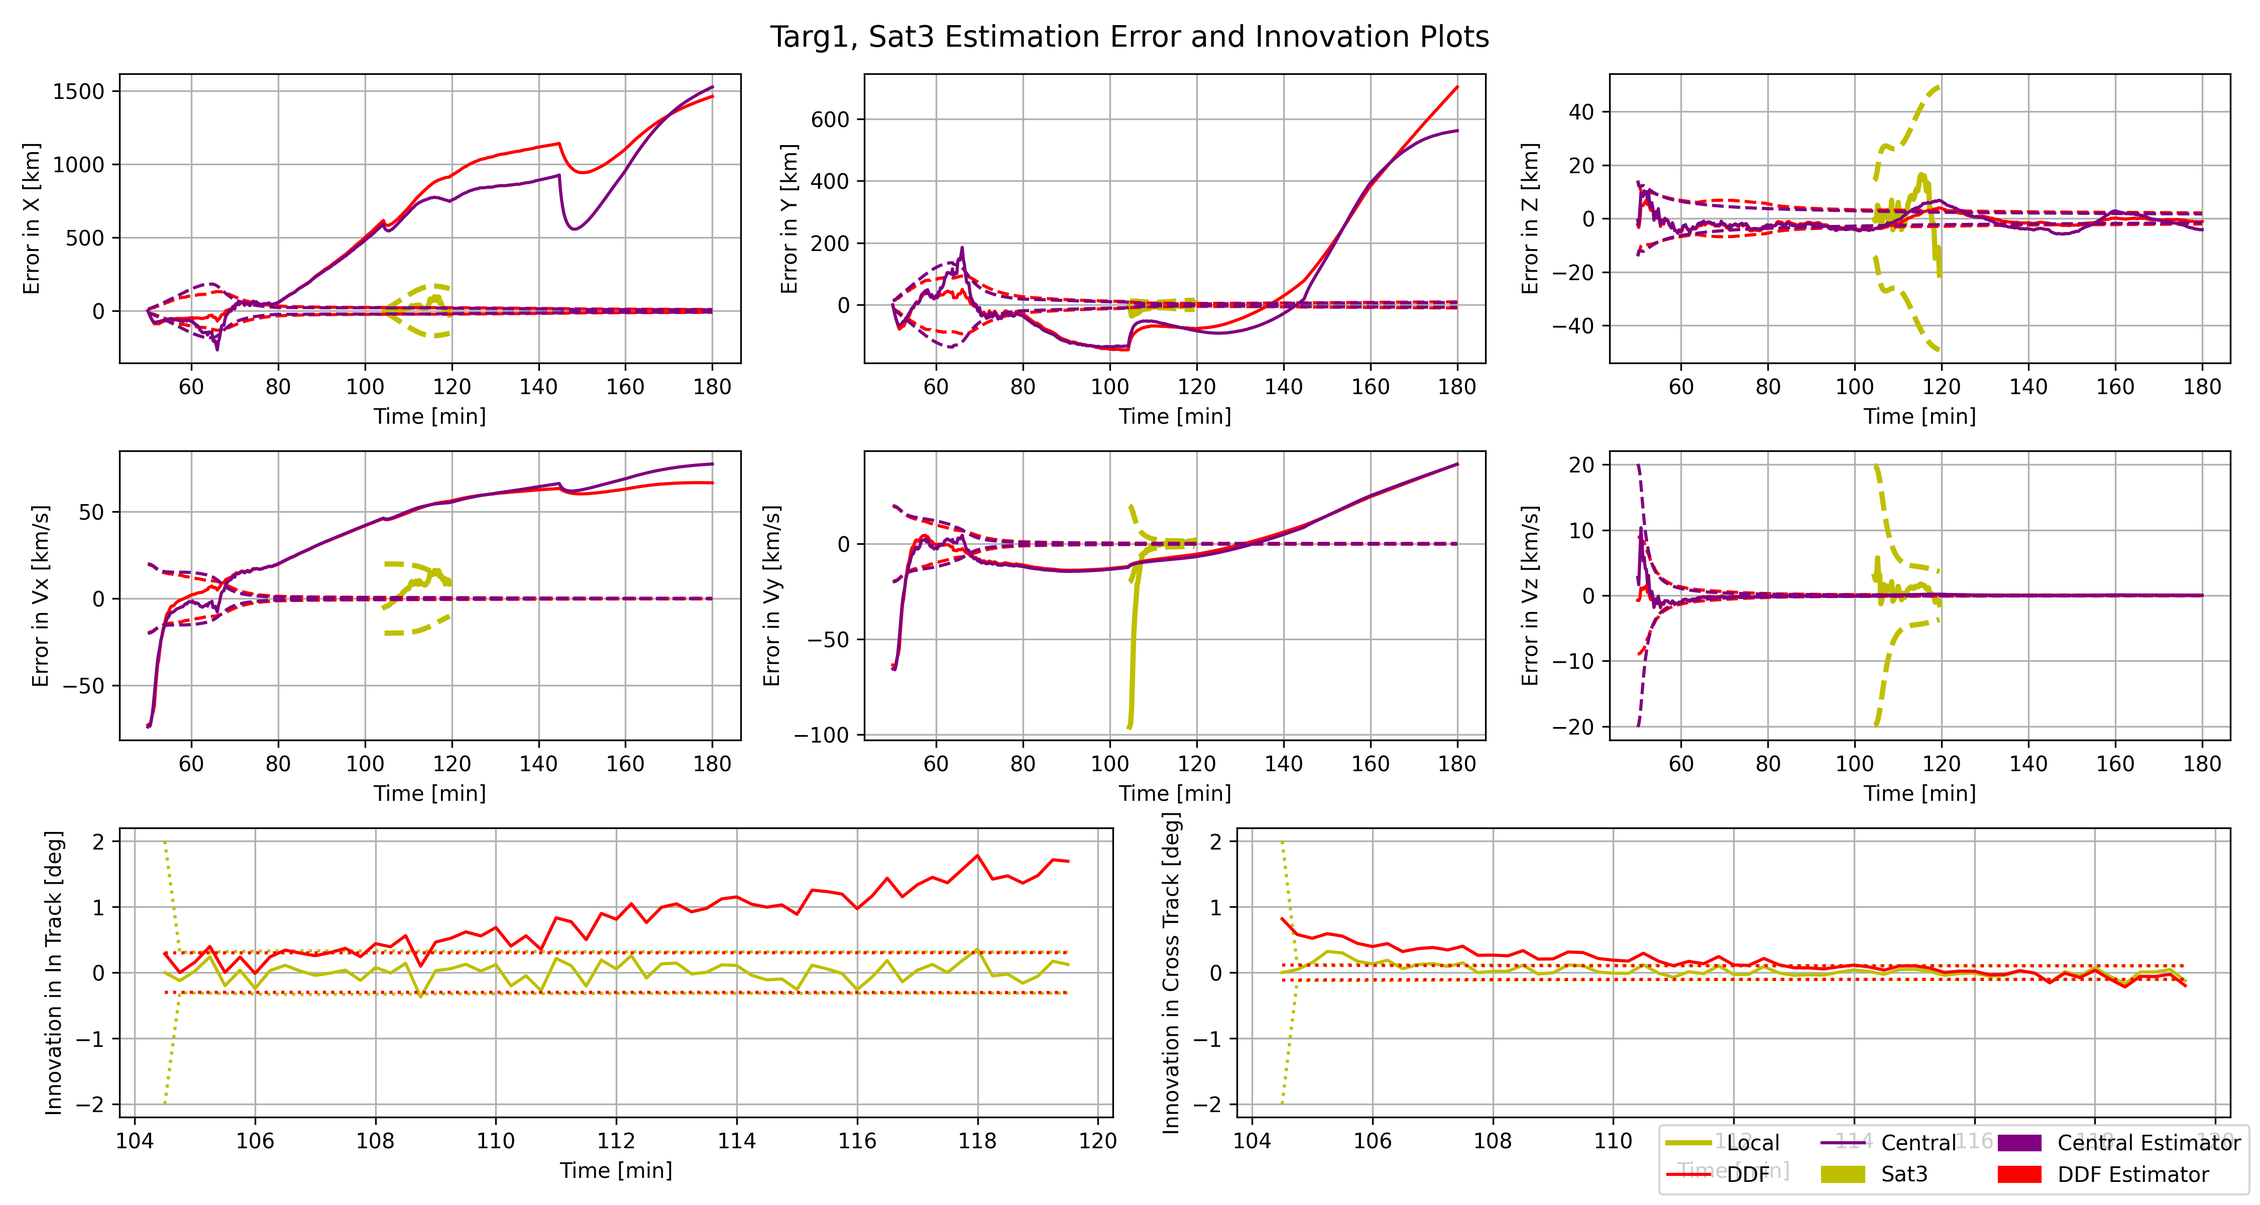
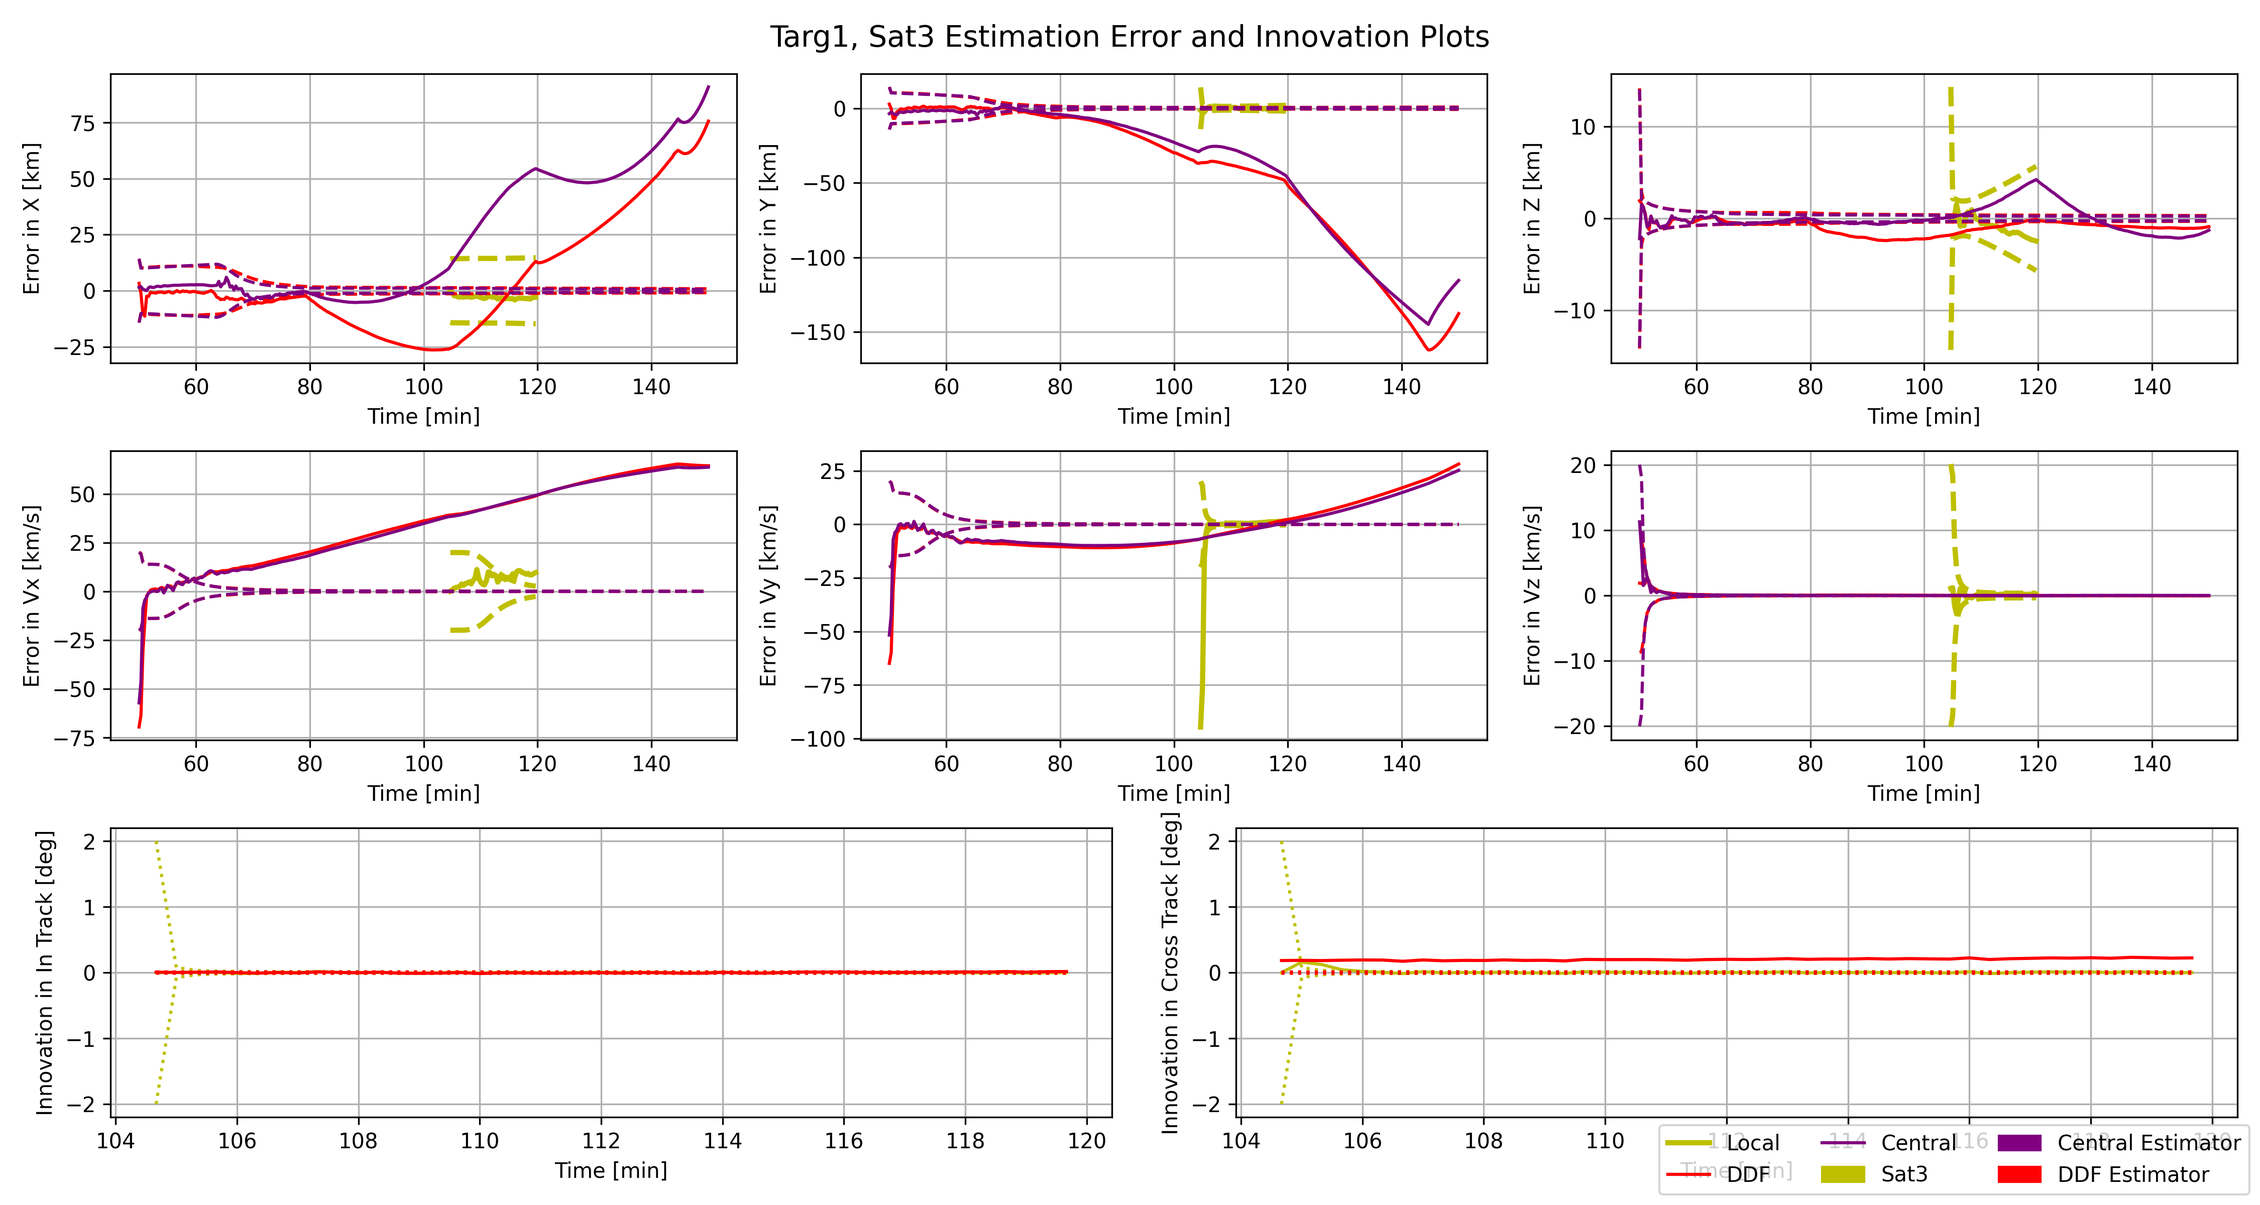
Test Case

diff --git a/phase1/estimatorClass.py b/phase1/estimatorClass.py
@@ -46,7 +46,7 @@ class centralEstimator:
         if len(self.estHist[targetID]) == 0 and len(self.covarianceHist[targetID]) == 0: # If no prior estimate exists, just use the measurement
     # If no prior estimates, use the first measurement and assume no velocity
             # start with true position plus some noise
-            est_prior = np.array([target.pos[0], 0, target.pos[1], 0, target.pos[2], 0]) + np.random.normal(0, 2, 6) 
+            est_prior = np.array([target.pos[0], 10, target.pos[1], 10, target.pos[2], 10]) + np.random.normal(0, 2, 6) 
             # start with some covariance, about +- 5 km and +- 20 km/min, then plus some noise 
             P_prior = np.array([[50, 0, 0, 0, 0, 0],
                                 [0, 100, 0, 0, 0, 0],
@@ -74,6 +74,7 @@ class centralEstimator:
     # Define the state transition matrix, F.
     # Is a 6x6 matrix representing mapping b/w state at time k and time k+1
         # How does our state: [x, vx, y, vy, z, vz] change over time?
+        
         F = np.array([[1, dt, 0, 0, 0, 0], # Assume no acceleration, just constant velocity over the time step
                       [0, 1, 0, 0, 0, 0],
                       [0, 0, 1, dt, 0, 0],
@@ -100,9 +101,28 @@ class centralEstimator:
 
 # PREDICTION:
     # Predict the state and covariance
-        est_pred = np.dot(F, est_prior)
+        est_pred = self.state_transition(est_prior, dt)
+        F = self.state_transition_jacobian(est_prior, dt)
+        
+        #est_pred2 = np.dot(F, est_prior)
         P_pred = np.dot(F, np.dot(P_prior, F.T)) + Q
+        
+        
+        # print(f"At time: {envTime:.2f}")
 
+        # predicted_state = est_pred  # Alias for clarity
+        # actual_state = [
+        #     target.pos[0], target.vel[0],
+        #     target.pos[1], target.vel[1],
+        #     target.pos[2], target.vel[2]
+        # ]
+
+        # # Format each element of the predicted state and actual state to 2 decimal places
+        # formatted_predicted_state = [f"{value:.2f}" for value in predicted_state]
+        # formatted_actual_state = [f"{value:.2f}" for value in actual_state]
+
+        # print(f"Predicted state: {formatted_predicted_state}")
+        
 # Use the predicted state to calculate H
     # Need this to be stacked for each satellite
     # Each H will be a 2x6 matrix
@@ -128,6 +148,12 @@ class centralEstimator:
     # Correct prediction
         est = est_pred + np.dot(K, innovation)
         P = P_pred - np.dot(K, np.dot(H, P_pred))
+        
+        # formatted_corrected_state = [f"{value:.2f}" for value in est]
+        # print(f"Corrected state: {formatted_corrected_state}")
+        # print(f"Actual state: {formatted_actual_state}")
+
+        #print(*["-"*10]*6, sep="\n")
 
     # CALCUATE NEES AND NIS
         # For nees, we need to get the error compared to the truth data:
@@ -148,7 +174,7 @@ class centralEstimator:
         self.nisHist[targetID][envTime] = nis
 
 
-    def calculate_Q(self, dt, intensity=np.array([0.001, 50, 5])):
+    def calculate_Q(self, dt, intensity=np.array([5, np.deg2rad(5), np.deg2rad(5)])):
         # Use Van Loan's method to tune Q using the matrix exponential
         
         # Define the state transition matrix, A.
@@ -190,6 +216,50 @@ class centralEstimator:
         Q = F @ vanLoan[0:6, 6:12]
         
         return Q
+    
+    def state_transition(self, estPrior, dt):
+        # Takes in previous ECI State and returns the next state after dt
+        x = estPrior[0]
+        vx = estPrior[1]
+        y = estPrior[2]
+        vy = estPrior[3]
+        z = estPrior[4]
+        vz = estPrior[5]
+        
+        # Turn into Spherical Coordinates
+        range_ = jnp.sqrt(x**2 + y**2 + z**2)
+        elevation = jnp.arcsin(z / range_)
+        azimuth = jnp.arctan2(y, x)
+        
+        rangeRate = (x * vx + y * vy + z * vz) / (range_ * jnp.linalg.norm(jnp.array([vx, vy, vz])))
+
+        # Calculate elevation rate
+        elevationRate = (z * (vx * x + vy * y) - (x**2 + y**2) * vz) / ((x**2 + y**2 + z**2) * jnp.sqrt(x**2 + y**2))
+
+        # Calculate azimuth rate
+        azimuthRate = (x * vy - y * vx) / (x**2 + y**2)
+
+        # Print intermediate values (comment out if not needed in production)
+        # jax.debug.print(
+        #     "Predic: Range: {range_}, Range Rate: {rangeRate}, Elevation: {elevation}, Elevation Rate: {elevationRate}, Azimuth: {azimuth}, Azimuth Rate: {azimuthRate}",
+        #     range_=range_, rangeRate=rangeRate, elevation=elevation, elevationRate=elevationRate, azimuth=azimuth, azimuthRate=azimuthRate)
+        
+        # Propagate the State
+        range_ = range_ + rangeRate * dt
+        elevation = elevation + elevationRate * dt
+        azimuth = azimuth + azimuthRate * dt
+        
+        # Convert back to Cartesian
+        x = range_ * jnp.cos(elevation) * jnp.cos(azimuth)
+        y = range_ * jnp.cos(elevation) * jnp.sin(azimuth)
+        z = range_ * jnp.sin(elevation)
+        
+        return jnp.array([x, vx, y, vy, z, vz])
+
+    def state_transition_jacobian(self, estPrior, dt):
+        jacobian = jax.jacfwd(lambda x: self.state_transition(x, dt))(jnp.array(estPrior))
+        
+        return jacobian
     
 class indeptEstimator:
     def __init__(self, targetIDs): # Takes in both the satellite objects and the targets
@@ -271,7 +341,10 @@ class indeptEstimator:
 
 # PREDICTION:
     # Predict the state and covariance
-        est_pred = np.dot(F, est_prior) # ECI coordinates
+        #est_pred = np.dot(F, est_prior) # ECI coordinates
+        est_pred = self.state_transition(est_prior, dt)
+        F = self.state_transition_jacobian(est_prior, dt)
+        
         P_pred = np.dot(F, np.dot(P_prior, F.T)) + Q
 
 # Use the predicted state to calculate H
@@ -312,7 +385,7 @@ class indeptEstimator:
         self.nisHist[targetID][envTime] = nis
                                
 
-    def calculate_Q(self, dt, intensity=np.array([0.001, 50, 5])):
+    def calculate_Q(self, dt, intensity=np.array([5, np.deg2rad(5), np.deg2rad(5)])):
         # Use Van Loan's method to tune Q using the matrix exponential
         
         # Define the state transition matrix, A.
@@ -354,7 +427,50 @@ class indeptEstimator:
         Q = F @ vanLoan[0:6, 6:12]
         
         return Q
+    
+    def state_transition(self, estPrior, dt):
+            # Takes in previous ECI State and returns the next state after dt
+            x = estPrior[0]
+            vx = estPrior[1]
+            y = estPrior[2]
+            vy = estPrior[3]
+            z = estPrior[4]
+            vz = estPrior[5]
+            
+            # Turn into Spherical Coordinates
+            range_ = jnp.sqrt(x**2 + y**2 + z**2)
+            elevation = jnp.arcsin(z / range_)
+            azimuth = jnp.arctan2(y, x)
+            
+            rangeRate = (x * vx + y * vy + z * vz) / (range_ * jnp.linalg.norm(jnp.array([vx, vy, vz])))
 
+            # Calculate elevation rate
+            elevationRate = (z * (vx * x + vy * y) - (x**2 + y**2) * vz) / ((x**2 + y**2 + z**2) * jnp.sqrt(x**2 + y**2))
+
+            # Calculate azimuth rate
+            azimuthRate = (x * vy - y * vx) / (x**2 + y**2)
+
+            # Print intermediate values (comment out if not needed in production)
+            # jax.debug.print(
+            #     "Predic: Range: {range_}, Range Rate: {rangeRate}, Elevation: {elevation}, Elevation Rate: {elevationRate}, Azimuth: {azimuth}, Azimuth Rate: {azimuthRate}",
+            #     range_=range_, rangeRate=rangeRate, elevation=elevation, elevationRate=elevationRate, azimuth=azimuth, azimuthRate=azimuthRate)
+            
+            # Propagate the State
+            range_ = range_ + rangeRate * dt
+            elevation = elevation + elevationRate * dt
+            azimuth = azimuth + azimuthRate * dt
+            
+            # Convert back to Cartesian
+            x = range_ * jnp.cos(elevation) * jnp.cos(azimuth)
+            y = range_ * jnp.cos(elevation) * jnp.sin(azimuth)
+            z = range_ * jnp.sin(elevation)
+            
+            return jnp.array([x, vx, y, vy, z, vz])
+        
+    def state_transition_jacobian(self, estPrior, dt):
+        jacobian = jax.jacfwd(lambda x: self.state_transition(x, dt))(jnp.array(estPrior))
+        
+        return jacobian
 class ddfEstimator:
     def __init__(self, targetIDs):
 
@@ -406,14 +522,17 @@ class ddfEstimator:
             # Propegate the estPrior to the new time?
             dt = sentTime - priorTime
             # How does our state: [x, vx, y, vy, z, vz] change over time?
-            F = np.array([[1, dt, 0, 0, 0, 0], # Assume no acceleration, just constant velocity over the time step
-                        [0, 1, 0, 0, 0, 0],
-                        [0, 0, 1, dt, 0, 0],
-                        [0, 0, 0, 1, 0, 0],
-                        [0, 0, 0, 0, 1, dt],
-                        [0, 0, 0, 0, 0, 1]])
+            # F = np.array([[1, dt, 0, 0, 0, 0], # Assume no acceleration, just constant velocity over the time step
+            #             [0, 1, 0, 0, 0, 0],
+            #             [0, 0, 1, dt, 0, 0],
+            #             [0, 0, 0, 1, 0, 0],
+            #             [0, 0, 0, 0, 1, dt],
+            #             [0, 0, 0, 0, 0, 1]])
             
-            estPrior_prop = np.dot(F, estPrior)
+            
+            #estPrior_prop = np.dot(F, estPrior)
+            estPrior_prop = self.state_transition(estPrior, dt)
+            
             #print("Propegated prior estimate to new time: " + str(sentTime) + " for " + str(sat.name) + " from " + str(priorTime) + " to " + str(sentTime) + " : " + str(estPrior) + " to " + str(estPrior_prop))
 
         # Check, should we THROW OUT the prior? or do CI with it?
@@ -514,7 +633,10 @@ class ddfEstimator:
 
 # PREDICTION:
     # Predict the state and covariance
-        est_pred = np.dot(F, est_prior) # ECI coordinates
+        est_pred = self.state_transition(est_prior, dt)
+        F = self.state_transition_jacobian(est_prior, dt)
+        
+        #est_pred = np.dot(F, est_prior) # ECI coordinates
         P_pred = np.dot(F, np.dot(P_prior, F.T)) + Q
 
 # Use the predicted state to calculate H
@@ -554,7 +676,7 @@ class ddfEstimator:
         self.neesHist[targetID][envTime] = nees
         self.nisHist[targetID][envTime] = nis
                                
-    def calculate_Q(self, dt, intensity=np.array([0.001, 50, 5])):
+    def calculate_Q(self, dt, intensity=np.array([5, np.deg2rad(5), np.deg2rad(5)])):
         # Use Van Loan's method to tune Q using the matrix exponential
         
         # Define the state transition matrix, A.
@@ -604,3 +726,47 @@ class ddfEstimator:
         omega = omega[0]
         P = np.linalg.inv(omega * np.linalg.inv(cov1) + (1 - omega) * np.linalg.inv(cov2))
         return np.linalg.det(P)
+    
+    def state_transition(self, estPrior, dt):
+            # Takes in previous ECI State and returns the next state after dt
+            x = estPrior[0]
+            vx = estPrior[1]
+            y = estPrior[2]
+            vy = estPrior[3]
+            z = estPrior[4]
+            vz = estPrior[5]
+            
+            # Turn into Spherical Coordinates
+            range_ = jnp.sqrt(x**2 + y**2 + z**2)
+            elevation = jnp.arcsin(z / range_)
+            azimuth = jnp.arctan2(y, x)
+            
+            rangeRate = (x * vx + y * vy + z * vz) / (range_ * jnp.linalg.norm(jnp.array([vx, vy, vz])))
+
+            # Calculate elevation rate
+            elevationRate = (z * (vx * x + vy * y) - (x**2 + y**2) * vz) / ((x**2 + y**2 + z**2) * jnp.sqrt(x**2 + y**2))
+
+            # Calculate azimuth rate
+            azimuthRate = (x * vy - y * vx) / (x**2 + y**2)
+
+            # Print intermediate values (comment out if not needed in production)
+            # jax.debug.print(
+            #     "Predic: Range: {range_}, Range Rate: {rangeRate}, Elevation: {elevation}, Elevation Rate: {elevationRate}, Azimuth: {azimuth}, Azimuth Rate: {azimuthRate}",
+            #     range_=range_, rangeRate=rangeRate, elevation=elevation, elevationRate=elevationRate, azimuth=azimuth, azimuthRate=azimuthRate)
+            
+            # Propagate the State
+            range_ = range_ + rangeRate * dt
+            elevation = elevation + elevationRate * dt
+            azimuth = azimuth + azimuthRate * dt
+            
+            # Convert back to Cartesian
+            x = range_ * jnp.cos(elevation) * jnp.cos(azimuth)
+            y = range_ * jnp.cos(elevation) * jnp.sin(azimuth)
+            z = range_ * jnp.sin(elevation)
+            
+            return jnp.array([x, vx, y, vy, z, vz])
+        
+    def state_transition_jacobian(self, estPrior, dt):
+        jacobian = jax.jacfwd(lambda x: self.state_transition(x, dt))(jnp.array(estPrior))
+        
+        return jacobian

diff --git a/phase1/main.py b/phase1/main.py
@@ -14,7 +14,7 @@ from commClass import comms
 #####################
 def create_environment():
     # Define a sensor model:
-    sens = sensor(name = 'Sensor', fov = 20, bearingsError = np.array([0.15, 0.05]))
+    sens = sensor(name = 'Sensor', fov = 20, bearingsError = np.array([0.25, 0.005]))
     #sens1 = sensor(name = 'Sensor 1', fov = 20, bearingsError = np.array([0.15, 0.05]))
     #sens2 = sensor(name = 'Sensor 2', fov = 20, bearingsError = np.array([0.15, 0.05]))
    
@@ -31,14 +31,14 @@ def create_environment():
     central = centralEstimator(targetIDs = targetIDs) 
 
     # Define the satellites:
-    sat1 = satellite(name = 'Sat1', sensor = deepcopy(sens), targetIDs=targetIDs, indeptEstimator=deepcopy(local), ddfEstimator=deepcopy(ddf),  a = Earth.R + 12000 * u.km, ecc = 0, inc = 90, raan = -35, argp = -55, nu = 0, color='b')
-    sat2 = satellite(name = 'Sat2', sensor = deepcopy(sens), targetIDs=targetIDs, indeptEstimator=deepcopy(local), ddfEstimator=deepcopy(ddf),  a = Earth.R + 12000 * u.km, ecc = 0, inc = 0, raan = -35, argp = -55, nu = 0, color='c')
+    sat1 = satellite(name = 'Sat1', sensor = deepcopy(sens), targetIDs=targetIDs, indeptEstimator=deepcopy(local), ddfEstimator=deepcopy(ddf), a = Earth.R + 12000 * u.km, ecc = 0, inc = 0, raan = -35, argp = -55, nu = 0, color='c')
+    sat2 = satellite(name = 'Sat2', sensor = deepcopy(sens), targetIDs=targetIDs, indeptEstimator=deepcopy(local), ddfEstimator=deepcopy(ddf),  a = Earth.R + 12000 * u.km, ecc = 0, inc = 90, raan = -35, argp = -55, nu = 0, color='b')
     sat3 = satellite(name = 'Sat3', sensor = deepcopy(sens), targetIDs=targetIDs, indeptEstimator=deepcopy(local), ddfEstimator=deepcopy(ddf),  a = Earth.R + 12000 * u.km, ecc = 0, inc = 90, raan = 0, argp = -90, nu = 0, color='y')
     sat4 = satellite(name = 'Sat4', sensor = deepcopy(sens), targetIDs=targetIDs, indeptEstimator=deepcopy(local), ddfEstimator=deepcopy(ddf),  a = Earth.R + 12000 * u.km, ecc = 0, inc = 90, raan = 35, argp = -125, nu = 0, color='r')
     # sat5 = satellite(name = 'Sat5', sensor = deepcopy(sens), targetIDs=targetIDs, indeptEstimator=deepcopy(local), ddfEstimator=deepcopy(ddf),  a = Earth.R + 1000 * u.km, ecc = 0, inc = 0, raan = -45, argp = -60, nu = 0, color='g')
     # sat6 = satellite(name = 'Sat6', sensor = deepcopy(sens), targetIDs=targetIDs, indeptEstimator=deepcopy(local), ddfEstimator=deepcopy(ddf),  a = Earth.R + 1000 * u.km, ecc = 0, inc = 0, raan = -45, argp = -90, nu = 0, color='m')
 
-    sats = [sat1, sat2, sat3, sat4]#, sat3, sat4, sat5, sat6]
+    sats = [sat1, sat2]#, sat3, sat4]#, sat3, sat4, sat5, sat6]
 
     # Define the target objects:
     targ1 = target(name = 'Targ1', targetID=1, cords = np.array([0,-90,0]), heading=90, speed=95, climbrate = 0, color = 'k')
@@ -47,7 +47,7 @@ def create_environment():
     targs = [targ1]#, targ2]
 
     # Define the communication network:
-    comms_network = comms(sats, maxNeighbors = 3, maxRange = 50000*u.km, minRange = 1*u.km, displayStruct = True)
+    comms_network = comms(sats, maxNeighbors = 3, maxRange = 15000*u.km, minRange = 1*u.km, displayStruct = True)
 
     # Create and return an environment instance:
     return environment(sats, targs, comms_network, central)
@@ -210,10 +210,10 @@ def testCase_environment():
 
 if __name__ == "__main__":
     # Vector of time for simulation:
-    time_vec = np.linspace(50, 180, 130*4 + 1) * u.minute
+    time_vec = np.linspace(50, 80, 61) * u.minute
     
     env = create_environment()
-    env.simulate(time_vec, savePlot = True, saveName = "new", showSim = False)
+    env.simulate(time_vec, savePlot = True, saveName = "PDR_DDF", showSim = False)
         
     # Plot the NEES and NIS results:
     # plot_NEES_NIS(simData)
@@ -229,4 +229,4 @@ if __name__ == "__main__":
     #     simData[i] = env.simulate(time_vec, savePlot = True, saveName = "CI", showSim = False)
 
     # Save the gif:
-    env.render_gif(fileName = 'satellite_simulation.gif', fps = 15)
+    env.render_gif(fileName = 'satellite_simulation.gif', fps = 10)

diff --git a/phase1/targetClass.py b/phase1/targetClass.py
@@ -72,6 +72,8 @@ class target:
         azimuth = self.X[4]
         azimuthRate = self.X[5]
         
+        # print("Target: Range: ", range, "Range Rate: ", rangeRate, "Elevation: ", elevation, "Elevation Rate: ", elevationRate, "Azimuth: ", azimuth, "Azimuth Rate: ", azimuthRate)
+        
         # Convert Spherical to Cartesian
         x = range * np.cos(elevation) * np.cos(azimuth)
         y = range * np.cos(elevation) * np.sin(azimuth)

diff --git a/phase1/environmentClass.py b/phase1/environmentClass.py
@@ -211,7 +211,7 @@ class environment:
         self.ax.set_ylim([-15000, 15000])
         self.ax.set_zlim([-15000, 15000])
         
-        self.ax.view_init(elev=30, azim=65)
+        self.ax.view_init(elev=30, azim=-10)
 
     # PLOT COMMUNICATION STRUCTURE
         if self.comms.displayStruct:
